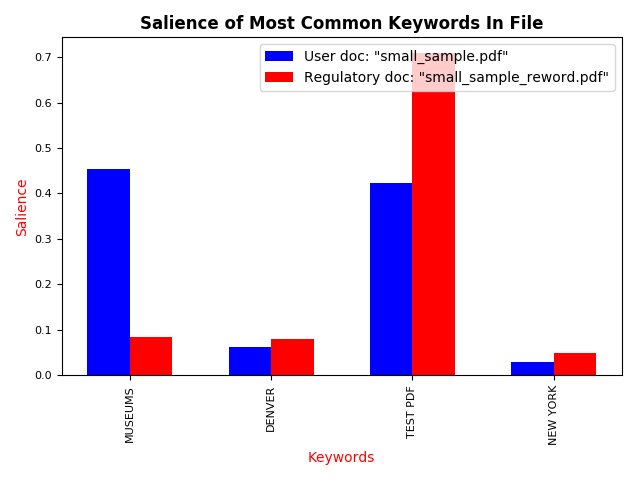
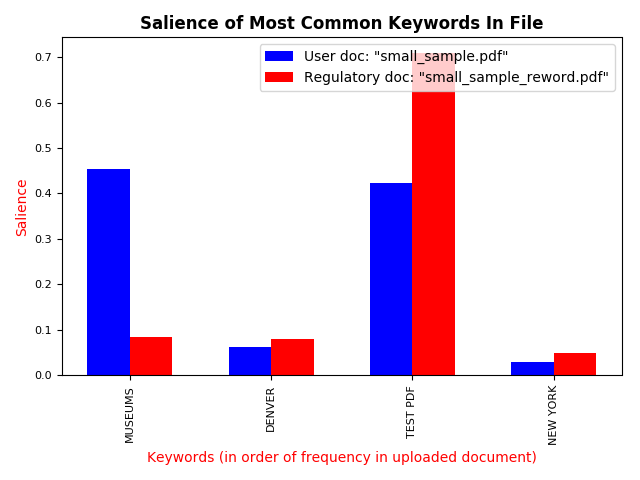
Implemented calculation of Yule's i score and cleaned up the UI in the Score Response page

Changed region(s): [[0.2188, 0.9375, 0.8438, 0.9688]]

diff --git a/views/score_response.html b/views/score_response.html
@@ -26,7 +26,7 @@
     <div class="container">
         <div class="header">
 
-            <h3 class="text-muted">Linguistic Analyzer</h3>
+            <h3 class="text-info" align="right">Linguistic Analyzer</h3>
         </div>
 
 
@@ -43,10 +43,10 @@
             -->
             <hr>
 
-
+            <!--
             <p class="lead"></p>
             <div class="d-inline-block">
-                <h2 ><u>Average Keyword Score: </u></h2>
+                <h2><u>Average User Doc Keyword Score: </u></h2>
 
 
             </div>
@@ -55,12 +55,14 @@
             </div>
 
             <br>
-
             <hr>
+            -->
+
+            <h1 align="center"><u>Yule's k Score</u></h1>
 
             <p class="lead"></p>
             <div class="d-inline-block">
-                <h2><u>User Doc Yule's K Score: </u></h2></div>
+                <h2>Uploaded Doc: </h2></div>
             <div class="d-inline-block">
                 <h2 style="color: crimson">#--YULESK_SCORE--#</h2>
             </div>
@@ -68,10 +70,27 @@
             <br>
 
             <div class="d-inline-block">
-                <h2><u>Regulatory Doc Yule's K Score: </u></h2></div>
+                <h2>Regulatory Doc: </h2></div>
             <div class="d-inline-block">
                 <h2 style="color: crimson">#--REG_YULESK_SCORE--#</h2>
             </div>
+
+            <h1 align="center"><u>Yule's i Score</u></h1>
+
+            <div class="d-inline-block">
+                <h2>Uploaded Doc: </h2></div>
+            <div class="d-inline-block">
+                <h2 style="color: crimson">#--YULESI_SCORE--#</h2>
+            </div>
+
+            <br>
+
+            <div class="d-inline-block">
+                <h2>Regulatory Doc: </h2></div>
+            <div class="d-inline-block">
+                <h2 style="color: crimson">#--REG_YULESI_SCORE--#</h2>
+            </div>
+
 
             <!--Yules info button-->
             <form action="/yulesinfo" enctype="multipart/form-data" method="get" about="more info">

diff --git a/views/index.html b/views/index.html
@@ -26,7 +26,7 @@
     <div class="container">
         <div class="header">
 
-            <h3 class="text-muted">Linguistic Analyzer</h3>
+            <h3 class="text-info" align="right">Linguistic Analyzer</h3>
         </div>
 
 

diff --git a/views/info.html b/views/info.html
@@ -26,7 +26,7 @@
     <div class="container">
         <div class="header">
 
-            <h3 class="text-muted">Linguistic Analyzer</h3>
+            <h3 class="text-info" align="right">Linguistic Analyzer</h3>
         </div>
 
 

diff --git a/views/invalid_upload.html b/views/invalid_upload.html
@@ -26,7 +26,7 @@
     <div class="container">
         <div class="header">
 
-            <h3 class="text-muted">Linguistic Analyzer</h3>
+            <h3 class="text-info" align="right">Linguistic Analyzer</h3>
         </div>
 
 

diff --git a/views/processing.html b/views/processing.html
@@ -26,7 +26,7 @@
     <div class="container">
         <div class="header">
 
-            <h3 class="text-muted">Linguistic Analyzer</h3>
+            <h3 class="text-info" align="right">Linguistic Analyzer</h3>
         </div>
 
 

diff --git a/functionsv1/common_functions.py b/functionsv1/common_functions.py
@@ -86,7 +86,9 @@ def getscorepage(kw_list, reg_kw_list):
         replace('#--YULESK_SCORE--#', str(kw_list.getyuleskscore()))\
         .replace('#--DOCUMENT_SCORE--#', str(kw_list.getdocumentscore()))\
         .replace('#--COMPARISON_SCORE--#', str(analyze_functions.calculatecomparisonscore(kw_list, reg_kw_list))) \
-        .replace('#--REG_YULESK_SCORE--#', str(reg_kw_list.getyuleskscore()))
+        .replace('#--REG_YULESK_SCORE--#', str(reg_kw_list.getyuleskscore())) \
+        .replace('#--YULESI_SCORE--#', str(kw_list.getyulesiscore())) \
+        .replace('#--REG_YULESI_SCORE--#', str(reg_kw_list.getyulesiscore()))
 
     f.close()
     return returnhtml
@@ -471,7 +473,7 @@ def plothighestfreqkeywords(keyword_list1, keyword_list2, doc1name='doc1', doc2n
     pyplot.xticks(x + w/2, my_xticks, fontsize=8, color='black', rotation=90)
     pyplot.yticks(fontsize=8)
     pyplot.title('Salience of Most Common Keywords In File', fontweight='bold')
-    pyplot.xlabel('Keywords', fontsize=10, color='red')
+    pyplot.xlabel('Keywords (in order of frequency in uploaded document)', fontsize=10, color='red')
     pyplot.ylabel('Salience', fontsize=10, color='red')
     pyplot.legend()
     pyplot.tight_layout()

diff --git a/app.py b/app.py
@@ -45,8 +45,8 @@ def project():
 
     f = open("views/info.html", "r")  # opens file with name of "index.html"
     return Response(f.read().replace('#--DESCRIPTION_TITLE--#', 'Project Information').replace('#--DESCRIPTION--#',
-                    "This Linguistic Analyzer lets the user upload a regulatory document and compares that document \
-                    against a regulatory document using the Yule's K Algorithm and a keyword scores algorithm.\
+                    "This Linguistic Analyzer lets the user upload a description document and compares that document \
+                    against a regulatory document using Yule's k and Yule's i Algorithms, as well as a keyword scores algorithm.\
                     The results of the calculations are then displayed graphically to the user."), mimetype='text/html')
 
 
